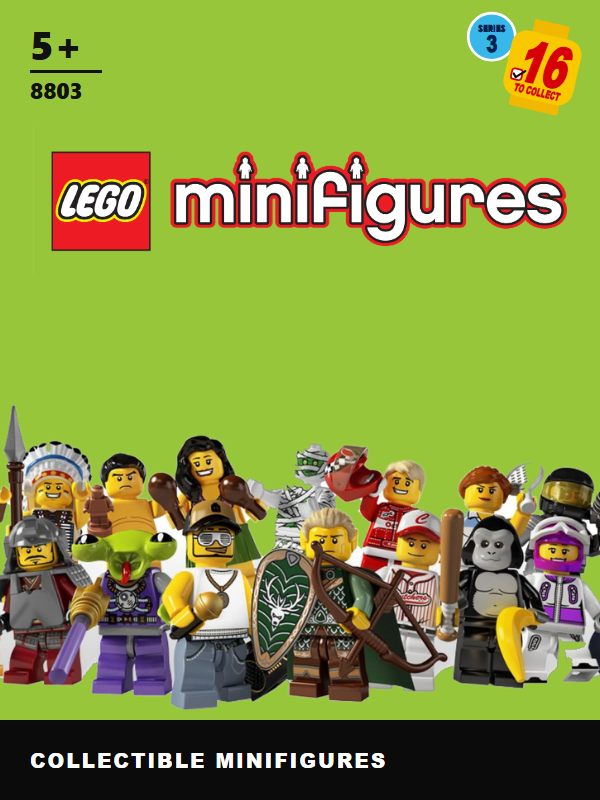
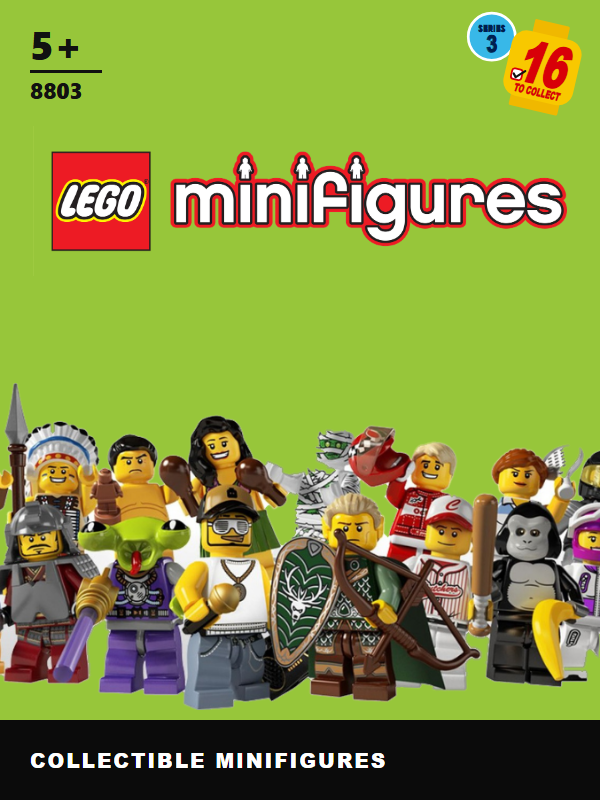
fix(V2-11): remove grey floor shadows from 8803 8805 8833 crowds
New mask method "shadow": white flood plus light, low-colour, smooth
areas connected to the border. 8805 keeps white gaps between figures:
its 700 px JPEG source cannot separate them from white figure parts.

Changed region(s): [[0.0, 0.4688, 1.0, 0.9062]]

diff --git a/scripts/prep_group.py b/scripts/prep_group.py
@@ -4,7 +4,7 @@ Owner rule 2026-11-09: cards show a packed crowd of figures, never a grid of fig
 figures, zoom in on part of the crowd instead of showing all (references: 71009, 71033, 71039, 71051).
 
 Per series: source photo in mockups/V2-11/crowd-candidates/, optional pre-crop (drops captions, watermarks or a
-second crowd), background removal ("white" flood from the border, or "grabcut" for gradients and photos), trim,
+second crowd), background removal ("white" flood from the border, "shadow" = white plus soft grey floor shadows, or "grabcut" for gradients and photos), trim,
 then an optional zoom crop. Writes mockups/assets/group/<id>.png. Sources: mockups/V2-11/crowd-candidates/SOURCES.md.
 Needs OpenCV only for "grabcut" sources: pip install -r requirements-images.txt.
 Usage: python scripts/prep_group.py [<id> ...]   (no args: all series in PREP)
@@ -22,10 +22,10 @@ OUT = ROOT / "mockups/assets/group"
 #        zoom box as fractions of the trimmed cut-out or None). Boxes set by eye against the card sheet.
 PREP = {
     "8683": ("8683-2.jpg", None, "white", None),
-    "8803": ("8803-1.png", None, "white", None),
-    "8805": ("8805-1.jpg", None, "white", None),
+    "8803": ("8803-1.png", None, "shadow", None),
+    "8805": ("8805-1.jpg", None, "shadow", None),
     "8831": ("8831-1.jpg", None, "white", None),
-    "8833": ("8833-1.png", None, "white", None),
+    "8833": ("8833-1.png", None, "shadow", None),
     "71000": ("71000-2.jpg", None, "white", None),
     "8909": ("8909-1.jpg", None, "white", None),
     "71002": ("71002-1.png", None, "grabcut", None),
@@ -62,6 +62,22 @@ def white_mask(rgb, white_min=226, spread=22, hole_min=250, hole_share=0.0004):
         holes = np.isin(plabels, 1 + np.flatnonzero(sizes >= hole_share * plabels.size))
         bg |= ndimage.binary_dilation(holes, iterations=1) & white
     return ndimage.binary_opening(~bg, iterations=1)
+
+
+def shadow_mask(rgb, lo_min=150, chroma=24, grad_max=6.0):
+    """white_mask plus the soft grey floor shadows of studio shots (8803, 8805, 8833): light, low-colour, smooth
+    pixels connected to the border are background too. The gradient limit stops the flood at figure outlines, so
+    white figure parts (mummy, jersey) stay. Limits set by eye on those three sources."""
+    lo, hi = rgb.min(axis=2).astype(int), rgb.max(axis=2).astype(int)
+    gray = ndimage.gaussian_filter(rgb.mean(axis=2), 1.0)
+    grad = np.hypot(ndimage.sobel(gray, 0), ndimage.sobel(gray, 1)) / 8
+    cand = (lo >= lo_min) & (hi - lo <= chroma) & (grad <= grad_max)
+    labels, _ = ndimage.label(cand)
+    edge = np.unique(np.concatenate([labels[0], labels[-1], labels[:, 0], labels[:, -1]]))
+    shadow = np.isin(labels, edge[edge > 0])
+    # Enclosed white gaps between figures are not removed here: by colour they cannot be told from white figure
+    # parts (a hole rule tried 2026-11-10 also cut the 8805 clown face, 8803 tank top and 8833 Santa beard).
+    return ndimage.binary_opening(white_mask(rgb) & ~shadow, iterations=1)
 
 
 def unmix_white(rgb, fg, band=2):
@@ -138,8 +154,9 @@ def prep(sid):
         out = src.copy()
         out.putalpha(Image.fromarray((fg * 255).astype(np.uint8)).filter(ImageFilter.GaussianBlur(0.6)))
     else:
-        fg = keep_big(white_mask(rgb) if method == "white" else grabcut_mask(rgb))
-        colour, alpha = unmix_white(rgb, fg) if method == "white" else (rgb, (fg * 255).astype(np.uint8))
+        masks = {"white": white_mask, "shadow": shadow_mask, "grabcut": grabcut_mask}
+        fg = keep_big(masks[method](rgb))
+        colour, alpha = unmix_white(rgb, fg) if method != "grabcut" else (rgb, (fg * 255).astype(np.uint8))
         out = Image.fromarray(colour).convert("RGBA")
         out.putalpha(Image.fromarray(alpha).filter(ImageFilter.GaussianBlur(0.5)))
     out = out.crop(Image.fromarray((fg * 255).astype(np.uint8)).getbbox())
